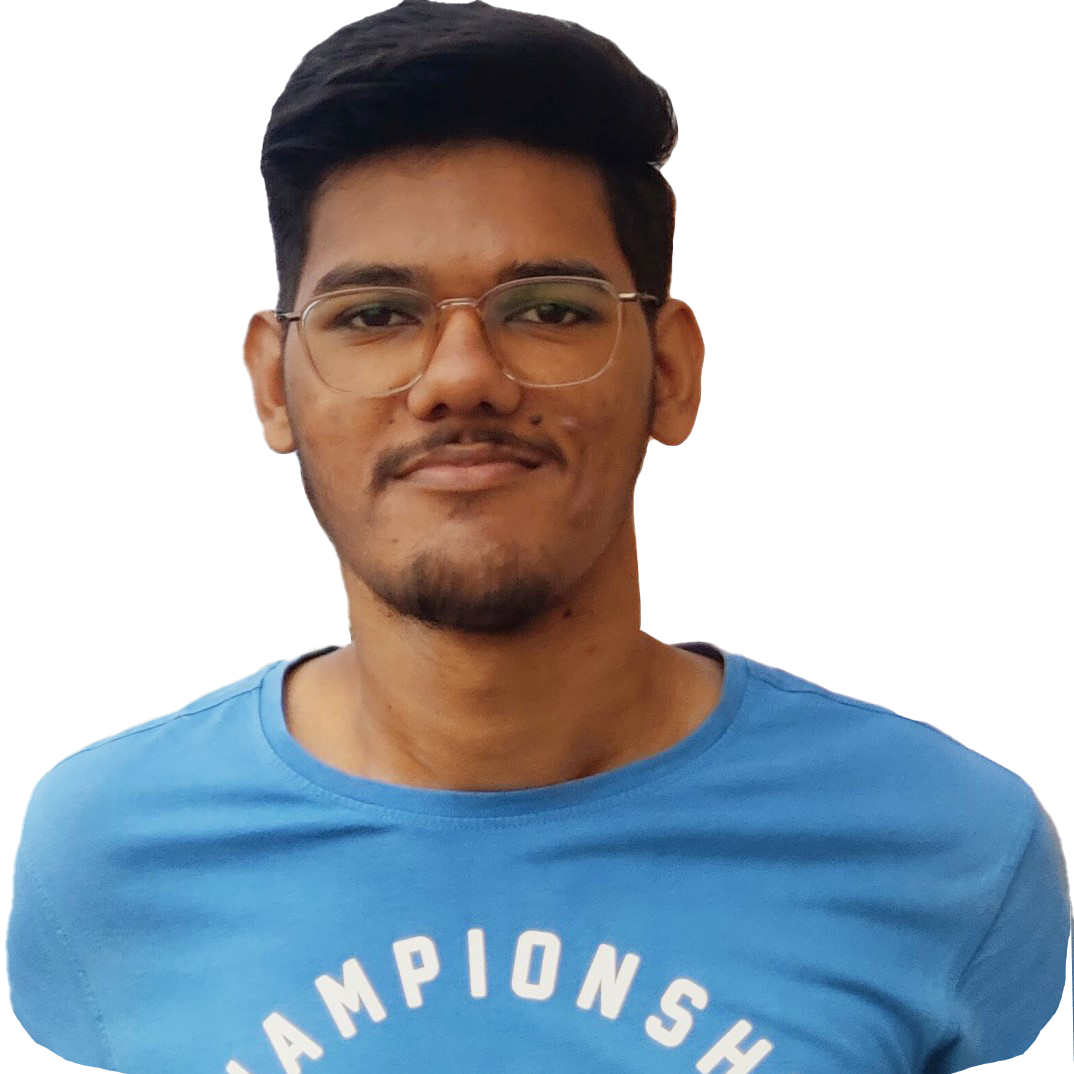
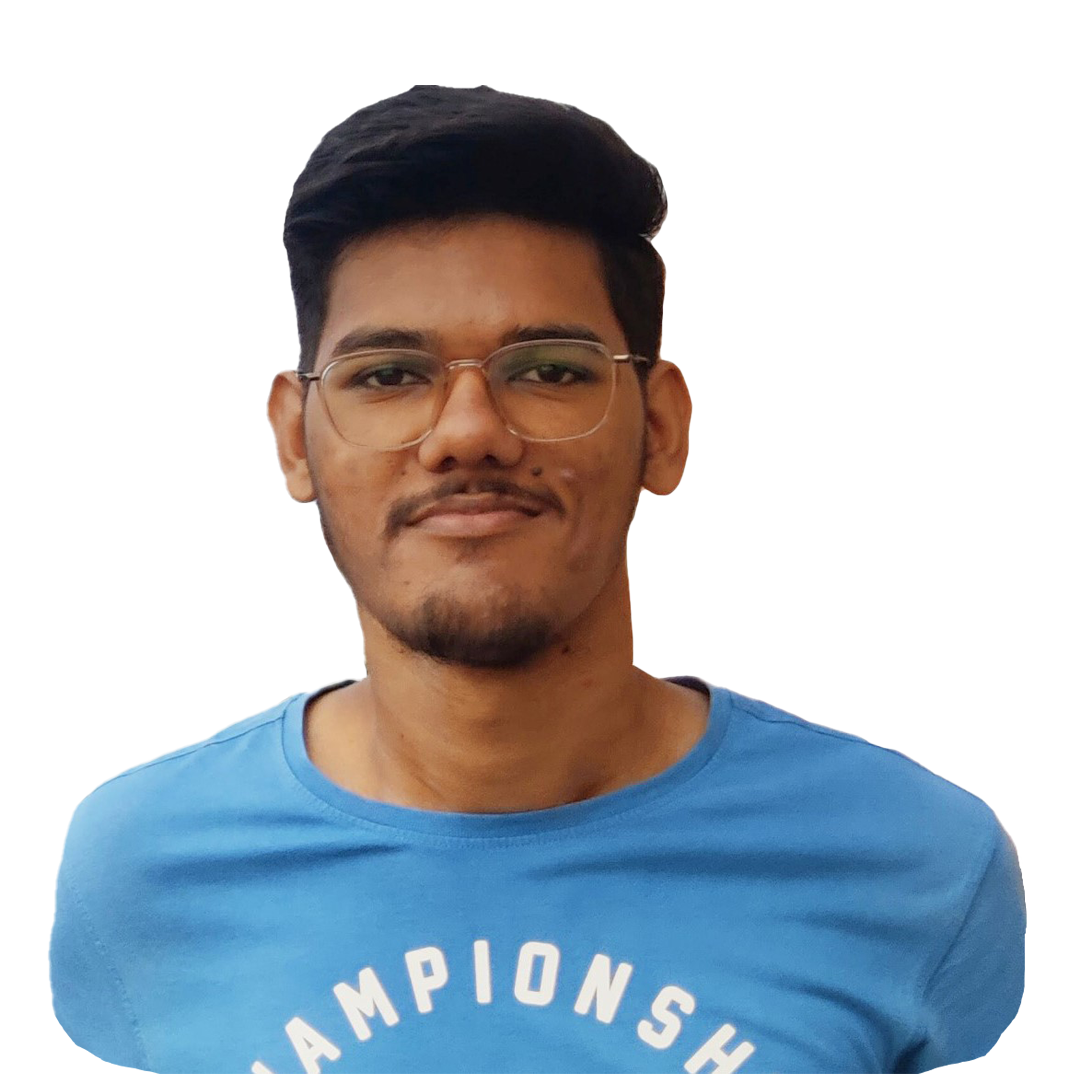
profile photo gradient added + minor fixes

Changed region(s): [[0.0, 0.0, 1.0, 1.0]]

diff --git a/css/styles.css b/css/styles.css
@@ -8,9 +8,6 @@ body{
     margin-top: 100px;
     opacity:0.8 ;
 }
-.middle-container{
-    
-}
 .top1{
     font-family: "ubuntu mono";
     position: relative;
@@ -24,9 +21,10 @@ body{
 img{
     max-width: 100%;
 }
-.profile-pic{
-    max-width: 15%;
-}
+/* .profile-pic{
+    z-index: 2;
+    width: 15%;
+} */
 .design{
     transform: rotate(90deg);
     max-width: 20%;
@@ -44,7 +42,7 @@ hr{
     border-style: none;
     border-top-style: dotted;
     border-color: #0ba272;
-    border-width: 13px;
+    border-width: .7rem;
     width: 6%;
     opacity: 0.8;;
 }
@@ -73,7 +71,8 @@ h3{
     background-color:cadetblue ;
 }
 .logo{
-    max-width:3%;
+    width:35px;
+    height: 35px;
     margin-right: 10px;
 }
 .skill-row{
@@ -84,7 +83,8 @@ h3{
 }
 .btn {
   position:absolute;
-  left: 540px;
+  left: 50%;
+  transform: translateX(-50%);
   border-top: 20px;
   background-color: cadetblue;
   background-image: -webkit-linear-gradient(top, cadetblue);
@@ -106,12 +106,17 @@ h3{
   background: #5da0ce;
   text-decoration: none;
 }
-
-a:link { text-decoration: none; color:rgb(253, 220, 207);}
-a:visited { text-decoration: none;color:rgb(253, 220, 207); }
-a:hover { text-decoration: none;color:rgb(253, 220, 207); }
-a:active { text-decoration: none;color:rgb(253, 220, 207); }
-
 .logo:hover{
-    transform: scale(1.3);
+    transform: scale(1.2);
+}
+.profile-effect {
+    display:inline-block;
+    max-width: 20%;
+    aspect-ratio: 1/1;
+    left: 50%;
+    /* transform: translateX(-50%); */
+    /* z-index: 1; */
+    border-radius: 40% 0%;
+    background: radial-gradient(circle, rgba(9, 67, 121, 0.784) 6%, rgba(71, 154, 167, 0.613) 60%, hwb(14 83% 2%) 100%);
+
 }

diff --git a/index.html b/index.html
@@ -23,7 +23,9 @@
 </div>
   <div class="middle-container">
     <div class="profile">
-      <img class="profile-pic" src="image\profile resize.png" alt="profile">
+      <div class="profile-effect">
+        <img class="profile-pic" style="width: 90%;" src="image\profile resize.png" alt="profile">
+      </div> 
       <h2>Hello.</h2>
       <p>I'm a second year student persuing engineering in computer science branch from Delhi Technological University</p>
     </div>
@@ -51,9 +53,9 @@
 
 <div class="bottom-container"><br><br>
   
-  <a class="logo" href="https://www.linkedin.com/in/ritesharah"><img class="logo" src="image\linkedin-logo-png-2026.png" alt="linkedin"></a>
-  <a class="logo" href="https://twitter.com/Ritesh35889057"><img class="logo" src="image\twitter-icon-67.png" alt="Twitter"></a>
-  <a class="logo" href="https://instagram.com/ritesharah"><img class="logo"src="https://img.icons8.com/fluency/512/instagram-new.png" alt="instagram"></a>
+  <a  href="https://www.linkedin.com/in/ritesharah"><img class="logo" src="image\linkedin-logo-png-2026.png" alt="linkedin"></a>
+  <a  href="https://github.com/ritesh1507"><img class="logo"src="image\github.png" alt="github"></a>
+  <a  href="https://twitter.com/Ritesh35889057"><img class="logo" src="image\twitter-icon-67.png" alt="Twitter"></a>
   <br><br><br>
   <p>copyright © 2023 Ritesh.</p><br><br>
 </div>
